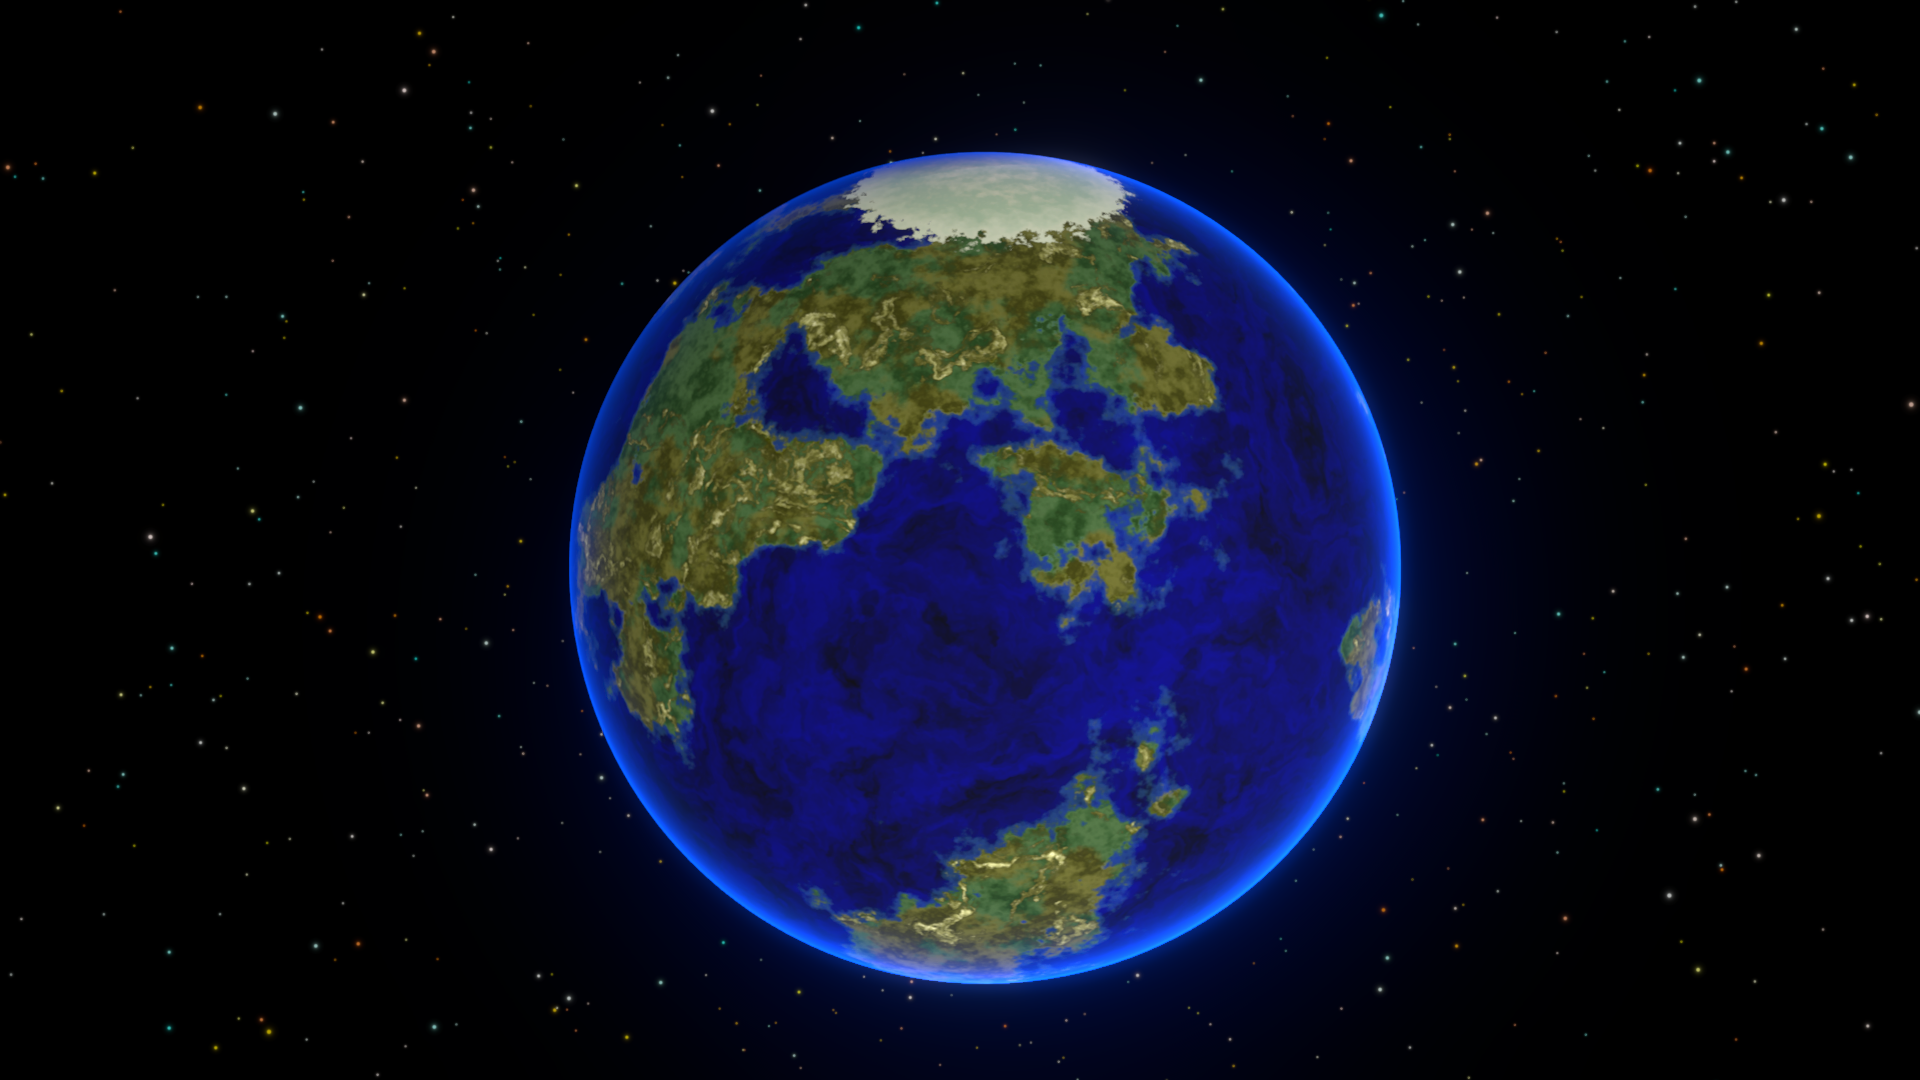
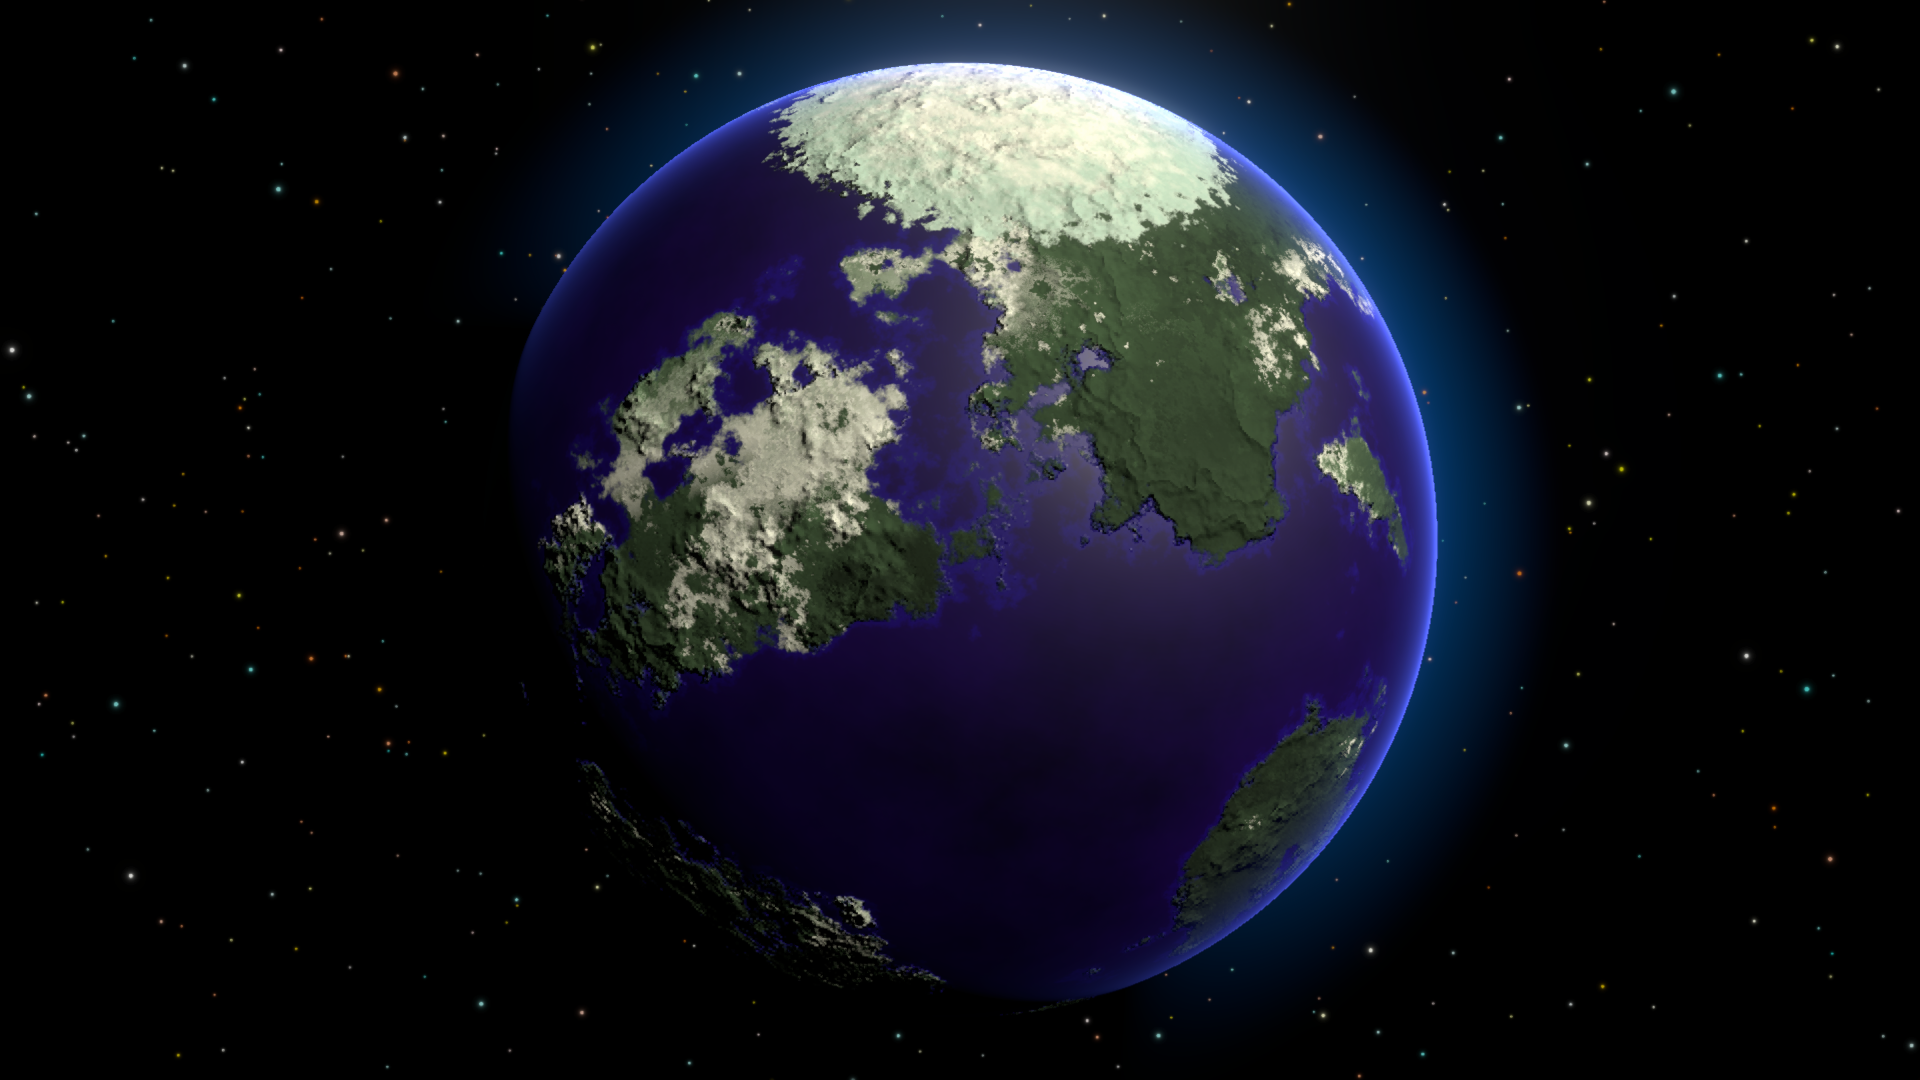
Additional docs added for 1.0.0 release
Known Issues
Anti-Aliasing
Front page improved with many details about the procedural materials.

diff --git a/docs/index.md b/docs/index.md
@@ -2,31 +2,89 @@
 
 ![Celestial Bodies](./assets/images/planets.png)
 
-Procedural Planet Generation is a Unity framework for creating procedural celestial bodies: stars, gas giants, asteroid rings, moons, and Earth-like planets.
+Procedural Planet Generation is a Unity framework for creating procedural celestial bodies through shaders with editor tools for texture baking and scripts for in-editor and runtime procedural generation.
 
-It uses Shader Graph for procedural surface shaders, VFX Graph for star coronas, and Render Graph for atmospheric and glow post-processing effects.
-
-This framework does NOT generate terrain or height-based geometry and does not modify meshes. It does generate procedural surface textures for lightweight, non-landable planets, suitable for space strategy games, solar system maps, background space environments, and skyboxes.
+Built with Shader Graph, VFX Graph, and Render Graph, this framework creates beautiful and detailed, lightweight, non-landable planets optimized for viewing from space. This is NOT a terrain generation tool - it focuses on procedural surface textures and visual effects rather than geometric terrain or heightmaps. It's perfect for space strategy games, solar system maps, background environments, and skyboxes.
 
 [Get Started](./get-started.md){ .md-button .md-button--primary }
 
-![Gas Giant with Ring](./assets/images/gas-giant-with-ring.png)
-/// caption
-Gas Giant with Ring
-///
+# Celestial Bodies
 
-![Moon](./assets/images/moon.png)
-/// caption
-Moon
-///
+## Moons
+![Moon](./assets/images/moons/hero.png)
+
+Rocky planets with procedurally generated surface color and heightmap detail. Two crater layers and a masked ridge network modify color contrast and procedural normals for visual height variance.
+
+### Customizable Features
+
+| Feature | Options |
+|-----------|---------|
+| **Surface Color** | Procedural pattern scale, color gradient, saturation |
+| **Heightmap & Contrast** | Height-based color contrast strength |
+| **Craters** | Density, size and depth ranges |
+| **Ridges** | Scale, density, width, mask noise scale, gain determines if crevices or ridges |
+| **Normal Map Generation** | Global strength, granular multiplier for surface, ridge, craters |
+
+[View Moon Documentation →](./moons.md)
+
+## Earth-likes
 
 ![Earth-like](./assets/images/earth-like.png)
-/// caption
-Earth-like Planet
-///
+![Earth-like](./assets/images/earth-like-clouds-lights.png)
 
-![Earth-like](./assets/images/star.png)
-/// caption
-Yellow Star with Corona VFX
-///
+Procedurally generated terrestrial planets with landmasses, coastlines, and ice caps formed through layered noise fields. Heightmap-driven surface normals simulate relief. The heightmap also samples color gradients to create natural-looking terrain patterns. Oceans feature shallow and deep water regions with depth-based coloration.
 
+Procedural animated clouds.
+
+Toggleable city lights on dark side of planet.
+
+Fresnel edge effect and post-processing glow for atmospheric effects.
+
+
+| Feature                   | Options                                                                              |
+| ------------------------- | ------------------------------------------------------------------------------------ |
+| **Continents**            | Continent scale and overall land–ocean coverage ratio                                |
+| **Ice Caps**              | Maximum ice cap extent based on elevation and ice edge falloff shaping               |
+| **Surface Heightmap**     | Mountain scale, surface roughness, and coastline definition sharpness                |
+| **Surface Color**         | Noise pattern scale, land color gradient, saturation, ocean deep/shallow coloration, height-based color contrast |
+| **Oceans**                | Depth thresholds for shallow/deep regions and water surface smoothness (specular)    |
+| **Normals**               | Global normal strength and per-layer contributions for mountains, ridges, and base noise |
+| **Atmospheric Effects**   | Fresnel edge tint and atmospheric glow color, size, and falloff            |
+| **Clouds**   | Size, density, normals, color, wave-like animation frequency and amplitude            |
+| **City lights**   | Density for coastal vs inner cities, color, light power            |
+
+## Gas Giants and Asteroid Rings
+
+![Gas Giant with Ring](./assets/images/gas-giant-with-ring.png)
+
+Procedurally generated gas giants feature dynamic, swirling cloud bands with animated storms and flowing patterns. Atmospheric effects with Fresnel edge glow and post-processing glow.
+
+| Feature                 | Options                                                                                                        |
+| ----------------------- | -------------------------------------------------------------------------------------------------------------- |
+| **Color**       | Color gradient applied to cloud bands, saturation                                              |
+| **Cloud Bands Pattern**        | Scale (number of bands), vertical band flow shape and scaling |
+| **Storms**     | Density, size, twistiness, ovality, movement speed, appearance rate   |
+| **Animation**           | Whorl movement speed and overall pattern flow rate                                                             |
+| **Atmospheric Effects**   | Fresnel edge tint and atmospheric glow color, size, and falloff            |
+
+Asteroid rings are procedurally generated spherically banded discs that rotate around a planet. Density and transparency vary across the bands, creating natural gaps and flowing patterns. Lighting overrides allow you to control visibility at acute viewing angles.
+
+| Feature                | Options                                                                                                                                                |
+| ---------------------- | ------------------------------------------------------------------------------------------------------------------------------------------------------ |
+| **Ring Shape**         | Inner and outer radius, edge fade strength, banding pattern defined by noise texture                                                                   |
+| **Color**              | Gradient sampled along the ring pattern, overall saturation                                                                                            |
+| **Ring Transparency**  | Alpha threshold controlling which regions of the ring are transparent                                                                                  |
+| **Animation / Flow**   | Rotation speed of the ring pattern                                                                                                                     |
+| **Lighting Overrides** | Two-sided lighting for transparency, minimum brightness level to avoid overly dark areas, light falloff sharpness to smooth shading at glancing angles |
+
+## Stars
+
+![Star](./assets/images/star.png)
+
+Stars are always lit with a flowing, molten surface with HDR color variation and corona glow and VFX.
+
+| Feature                     | Options                                                                                                                                     |
+| --------------------------- | ------------------------------------------------------------------------------------------------------------------------------------------- |
+| **Molten Pattern**          | Domain warp scale and intensity, pattern scale, and flow speed driving the animated molten surface |
+| **Color Sampling**          | Primary color gradient plus Q/R domain-warp modulation channels blended with HDR colors for complex multi-band color variation |
+| **Corona Effects**  | Fresnel edge glow (color and power), unlit spherical glow density and falloff, VFX particle color, spawn rate (corona thickness), particle size, and turbulence intensity |

diff --git a/docs/baking-textures.md b/docs/baking-textures.md
@@ -6,7 +6,7 @@ To balance performance and memory, we have included editor tools for baking proc
 
 ## Material context menu item
 
-One way to access the procedural texture baking is by right clicking on the material's inpector window and choosing 'Parallel Cascades > Bake Procedural Material to Cubemap Texture':
+You can bake the procedural planet's color map or its heightmap, which is used to generate normals. To access the procedural texture baking is by right clicking on the material's inpector window and choosing 'Parallel Cascades > Bake Procedural Material to Cubemap Texture' or 'Parallel Cascades > Bake Procedural Material Heightmap to Cubemap Texture:
 
 ![Bake Texture Context Menu](./assets/images/texture-baking/context-menu.png)
 
@@ -20,8 +20,6 @@ If you tick the `Assign Texture To Material` checkbox, the static texture will b
 
 ![Render Mode Property](./assets/images/texture-baking/render-mode-property.png)
 
-
-
 ## Flowmaps
 
 Stars and gas giants can utilise flow maps when in static texture rendering mode, in order to simulate the dynamic flow of the procedural shader. There are a few default flow map texture included in this asset, but you can also create your own with external tools like Photoshop or Flowmap Painter.
@@ -33,3 +31,11 @@ Stars and gas giants can utilise flow maps when in static texture rendering mode
 When importing these textures in Unity, make sure they are not imported as sRGB textures, as that will read the flow data incorrectly:
 
 ![Import Settings](./assets/images/texture-baking/flowmap-import-settings.png)
+
+## Be wary of Texture Sizes
+
+Baking large 4K cubemap face textures will actually create 4x4 = 16K sized textures:
+
+![4K Texture Preview](./assets/images/texture-baking/4k-texture-size.png)
+
+ Be mindful when creating multiple of these as your project can quickly balloon in size.

diff --git a/docs/known-issues.md b/docs/known-issues.md
@@ -1,0 +1,16 @@
+# Known Issues
+More permanent solutions are being worked on for these issues, here are quick temporary solutions:
+
+## 1. Flickering with high-detail noise patterns when viewed from a distance.
+
+See [Anti-Aliasing](./antialiasing.md) and [Filtering](./filtering.md). [Baked](./baking-textures.md) textures do not have this issue.
+
+Procedural normal filtering and distance-based LOD for the procedural shaders will be coming in a later update, which will completely remove the flickering.
+
+## 2. Cubemap Preview during baking showing a seam between faces
+
+This is in fact a repeated face. This might happen if any changes have been made to the shader just prior to baking:
+
+![Cubemap Face Bug](./assets/images/known-issues/cubemap-face-bug.png)
+
+ This only affects the preview image and will not carry over to the final rendered image and can be ignored.

diff --git a/docs/antialiasing.md b/docs/antialiasing.md
@@ -1,0 +1,11 @@
+# Anti-Aliasing
+
+Some shader effects might experience flickering when created with very large scale, like earth-like planet city lights or moon surface noise scale. Procedural normal maps will also have this problem if the normal strength is too large or the underlying noise is too high frequency.
+
+[Baking](./baking-textures.md) the procedural shaders into static textures solves this issue fully.
+
+If you want to keep using procedural shaders, one way to deal with this is with [filtering](filtering.md) in the shader. Another is to use camera antialiasing:
+
+![TAA on Camera](./assets/images/anti-aliasing/camera-taa.png)
+
+Temporal Anti-Aliasing (TAA) produces some of the best results with URP.

diff --git a/docs/changelog.md b/docs/changelog.md
@@ -5,7 +5,7 @@ All notable changes to this project will be documented in this file.
 The format is based on [Keep a Changelog](https://keepachangelog.com/en/1.1.0/),
 and this project adheres to [Semantic Versioning](https://semver.org/spec/v2.0.0.html).
 
-## [1.0.0] - 2025-10-31
+## [1.0.0] - 2025-12-10
 
 - Added
     - Initial release
